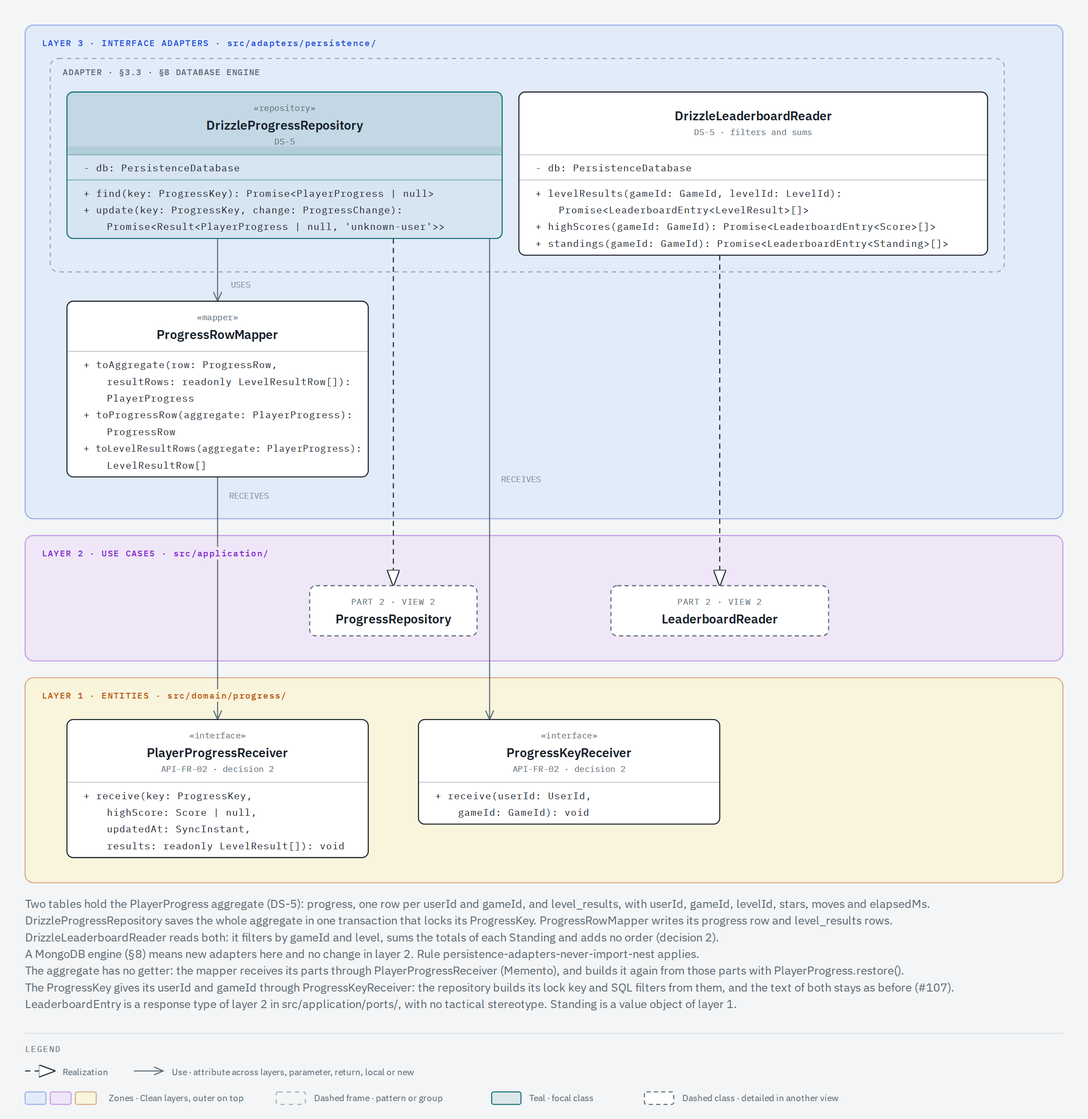
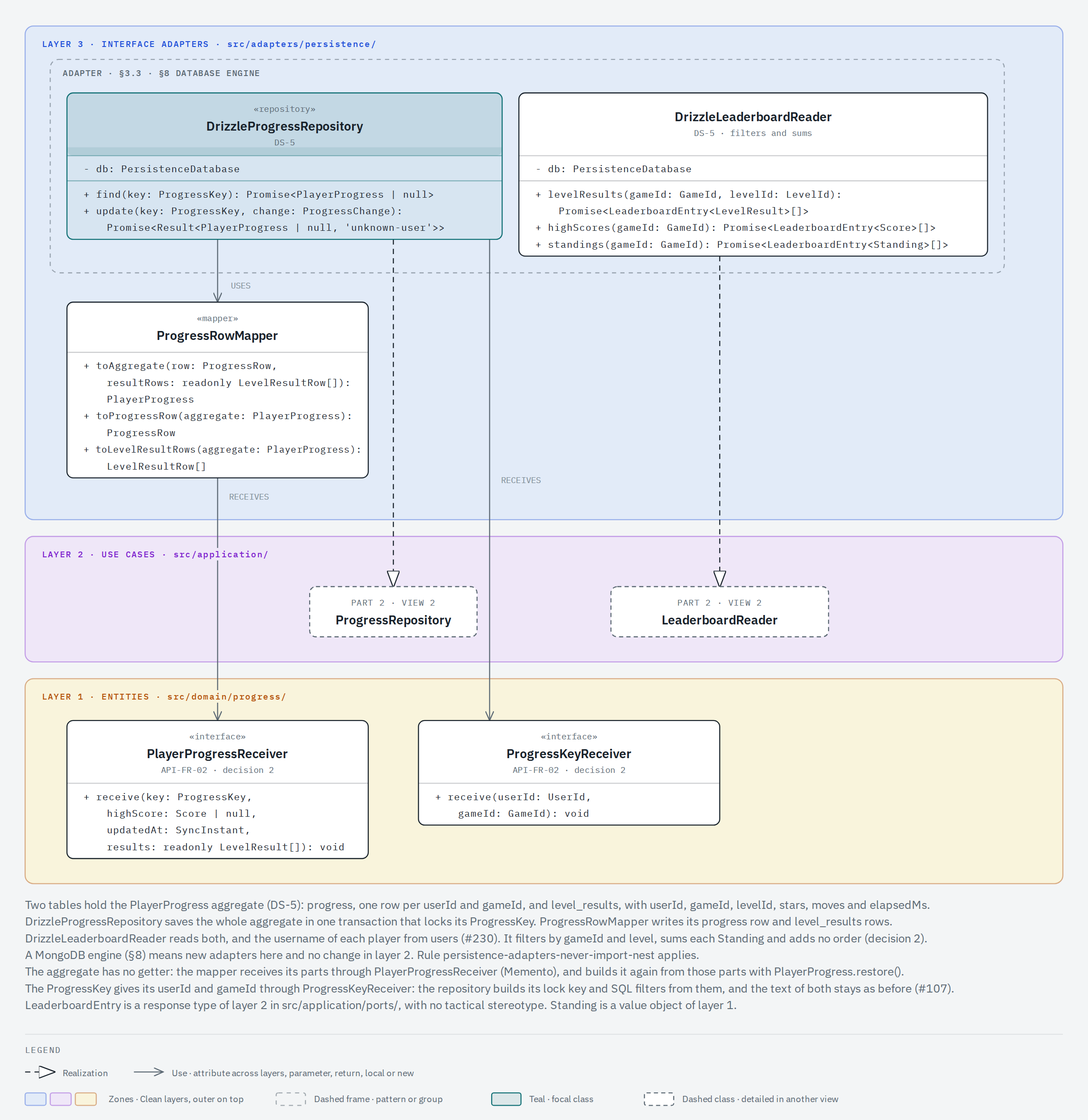
docs(architecture): describe the username of each leaderboard row
Refs #230

diff --git a/docs/architecture/classes/views/domain-1-progress.html b/docs/architecture/classes/views/domain-1-progress.html
@@ -63,7 +63,7 @@
       <p class="eyebrow">Class diagram · Part 1 · View 1 of 5</p>
       <h1>Progress: one aggregate per user and gameId, and the values that rank a leaderboard</h1>
       <svg
-        viewBox="0 0 1040 1362"
+        viewBox="0 0 1040 1378"
         xmlns="http://www.w3.org/2000/svg"
         role="img"
         aria-labelledby="domain1progress-title domain1progress-desc"
@@ -79,17 +79,18 @@
           restore() from those parts and keeps its LevelResult values, each one with the
           isBetterThan order of DS-4. The Standing value object holds the totals of a player in one
           game, a Stars, a LevelsCompleted, a Moves and an ElapsedTime, and the isBetterThan order
-          of S3-03. In layer 2, the LeaderboardEntry response type names the player by UserId and
-          holds the value that ranks the player: a LevelResult, a Score or a Standing. ProgressKey
-          takes the UserId and the GameId built in of(), which returns the key itself, compares them
-          in equals() and delivers both to a ProgressKeyReceiver with deliverTo(). GameId, Score,
-          SyncInstant and UserId keep their value private and deliver it to a receiver with
-          deliverTo(). Each of their factories returns a Result with the code of a broken rule.
-          LevelResult keeps its four value objects private, takes them built in of(), and delivers
-          all four to a LevelResultReceiver with deliverTo(). A dashed frame labelled Aggregate
-          encloses PlayerProgress and the value objects that it holds: ProgressKey, UserId, GameId,
-          LevelResult, Score and SyncInstant. A footnote gives the port signatures find(key:
-          ProgressKey) and update(key: ProgressKey, change: ProgressChange) of ProgressRepository.
+          of S3-03. In layer 2, the LeaderboardEntry response type names the player by UserId, names
+          the account by Username (#230), and holds the value that ranks the player: a LevelResult,
+          a Score or a Standing. ProgressKey takes the UserId and the GameId built in of(), which
+          returns the key itself, compares them in equals() and delivers both to a
+          ProgressKeyReceiver with deliverTo(). GameId, Score, SyncInstant and UserId keep their
+          value private and deliver it to a receiver with deliverTo(). Each of their factories
+          returns a Result with the code of a broken rule. LevelResult keeps its four value objects
+          private, takes them built in of(), and delivers all four to a LevelResultReceiver with
+          deliverTo(). A dashed frame labelled Aggregate encloses PlayerProgress and the value
+          objects that it holds: ProgressKey, UserId, GameId, LevelResult, Score and SyncInstant. A
+          footnote gives the port signatures find(key: ProgressKey) and update(key: ProgressKey,
+          change: ProgressChange) of ProgressRepository.
         </desc>
         <defs>
           <marker
@@ -224,7 +225,7 @@
         <!-- LeaderboardEntry<LevelResult> holds result on the board of a level: use with role and multiplicity -->
         <line
           x1="540"
-          y1="164"
+          y1="180"
           x2="540"
           y2="288"
           stroke="#5b6873"
@@ -434,7 +435,7 @@
           x="400"
           y="64"
           width="280"
-          height="100"
+          height="116"
           rx="6"
           fill="#ffffff"
           stroke="#17212a"
@@ -478,6 +479,9 @@
           + userId: UserId {readOnly}
         </text>
         <text x="416" y="156" fill="#17212a" font-size="9" font-family="'IBM Plex Mono', monospace">
+          + username: Username {readOnly}
+        </text>
+        <text x="416" y="172" fill="#17212a" font-size="9" font-family="'IBM Plex Mono', monospace">
           + result: TResult {readOnly}
         </text>
         <!-- Class: UserId («value object») -->
@@ -1404,21 +1408,31 @@
           font-size="11"
           font-family="'IBM Plex Sans', sans-serif"
         >
+          LeaderboardEntry also names the account of the player by its Username, which view 1.3
+          draws (#230).
+        </text>
+        <text
+          x="24"
+          y="1272"
+          fill="#5b6873"
+          font-size="11"
+          font-family="'IBM Plex Sans', sans-serif"
+        >
           ProgressRepository finds the aggregate with find(key: ProgressKey) and changes it with
           update(key: ProgressKey, change: ProgressChange) (#107).
         </text>
         <!-- Legend -->
         <line
           x1="24"
-          y1="1280"
+          y1="1296"
           x2="1016"
-          y2="1280"
+          y2="1296"
           stroke="rgba(23,33,42,0.10)"
           stroke-width="0.8"
         />
         <text
           x="24"
-          y="1298"
+          y="1314"
           fill="#5b6873"
           font-size="8"
           font-family="'IBM Plex Mono', monospace"
@@ -1428,16 +1442,16 @@
         </text>
         <line
           x1="24"
-          y1="1316"
+          y1="1332"
           x2="52"
-          y2="1316"
+          y2="1332"
           stroke="#5b6873"
           stroke-width="1"
           marker-end="url(#domain1progress-open)"
         />
         <text
           x="60"
-          y="1320"
+          y="1336"
           fill="#5b6873"
           font-size="8.5"
           font-family="'IBM Plex Sans', sans-serif"
@@ -1446,7 +1460,7 @@
         </text>
         <text
           x="299"
-          y="1320"
+          y="1336"
           fill="#5b6873"
           font-size="8.5"
           font-family="'IBM Plex Sans', sans-serif"
@@ -1455,7 +1469,7 @@
         </text>
         <rect
           x="24"
-          y="1336"
+          y="1352"
           width="20"
           height="12"
           rx="2"
@@ -1465,7 +1479,7 @@
         />
         <rect
           x="48"
-          y="1336"
+          y="1352"
           width="20"
           height="12"
           rx="2"
@@ -1475,7 +1489,7 @@
         />
         <text
           x="80"
-          y="1345"
+          y="1361"
           fill="#5b6873"
           font-size="8.5"
           font-family="'IBM Plex Sans', sans-serif"
@@ -1484,7 +1498,7 @@
         </text>
         <rect
           x="240"
-          y="1336"
+          y="1352"
           width="28"
           height="12"
           rx="2"
@@ -1495,7 +1509,7 @@
         />
         <text
           x="276"
-          y="1345"
+          y="1361"
           fill="#5b6873"
           font-size="8.5"
           font-family="'IBM Plex Sans', sans-serif"
@@ -1504,7 +1518,7 @@
         </text>
         <rect
           x="446"
-          y="1336"
+          y="1352"
           width="28"
           height="12"
           rx="2"
@@ -1514,7 +1528,7 @@
         />
         <text
           x="482"
-          y="1345"
+          y="1361"
           fill="#5b6873"
           font-size="8.5"
           font-family="'IBM Plex Sans', sans-serif"
@@ -1523,7 +1537,7 @@
         </text>
         <rect
           x="592"
-          y="1336"
+          y="1352"
           width="28"
           height="12"
           rx="2"
@@ -1534,7 +1548,7 @@
         />
         <text
           x="628"
-          y="1345"
+          y="1361"
           fill="#5b6873"
           font-size="8.5"
           font-family="'IBM Plex Sans', sans-serif"

diff --git a/docs/architecture/classes/views/ad-1-progress-store.html b/docs/architecture/classes/views/ad-1-progress-store.html
@@ -80,9 +80,10 @@
           parts with restore(). DrizzleProgressRepository finds and updates one progress by its
           ProgressKey and receives the userId and the gameId of the key through ProgressKeyReceiver,
           another interface of layer 1, for its lock key and its SQL filters.
-          DrizzleLeaderboardReader filters by gameId and level, sums the totals of each Standing and
-          adds no order. A footnote says that LeaderboardEntry is a response type of layer 2 with no
-          tactical stereotype and that Standing is a value object of layer 1.
+          DrizzleLeaderboardReader filters by gameId and level, sums the totals of each Standing,
+          joins the users table for the username of each row and adds no order. A footnote says that
+          LeaderboardEntry is a response type of layer 2 with no tactical stereotype and that
+          Standing is a value object of layer 1.
         </desc>
         <defs>
           <marker
@@ -695,8 +696,8 @@
           font-size="11"
           font-family="'IBM Plex Sans', sans-serif"
         >
-          DrizzleLeaderboardReader reads both: it filters by gameId and level, sums the totals of
-          each Standing and adds no order (decision 2).
+          DrizzleLeaderboardReader reads both, and the username of each player from users (#230). It
+          filters by gameId and level, sums each Standing and adds no order (decision 2).
         </text>
         <text
           x="24"

diff --git a/docs/REQUIREMENTS.md b/docs/REQUIREMENTS.md
@@ -21,7 +21,7 @@ API-FR-01 to API-FR-06 keep the numbers of statement §5.2.
 
 - **API-FR-01 — Sign-up and sign-in (§5.2.1).** Sign-up and sign-in with JWT. A username is stored as the player typed it. Sign-up rejects a username that differs from a stored one only in letter case (`Ada` after `ada`) with the same 409 as an exact duplicate, and a unique index on `lower(username)` holds the rule when two sign-ups run at the same time. Sign-in looks the user up by the same lower-case key that sign-up uses, so `ADA`, `Ada` and `ada` sign in the stored `ada` with its password, and the stored name keeps the letter case of sign-up (decided on 2026-11-16 on [#134](https://github.com/Hexablock-Suite/hexablock-api/issues/134), built in [#144](https://github.com/Hexablock-Suite/hexablock-api/issues/144); it replaces the as-typed sign-in of [#62](https://github.com/Hexablock-Suite/hexablock-api/issues/62)). _Check:_ an e2e test signs up, signs in and calls a protected endpoint with the token; the same call without a token gets 401.
 - **API-FR-02 — Progress sync (§5.2.2).** Progress sync with `gameId` as a required key: one progress entry per user and per variant. _Check:_ an endpoint test saves progress for two variants and reads back two entries; a second save for the same user and variant does not add an entry; a request without `gameId` is rejected. When two results of one level arrive, DS-12 decides which one stays. Built on [#135](https://github.com/Hexablock-Suite/hexablock-api/issues/135): a value that a client sends has bounds, and a value outside them gets 400 with the error body of API-FR-06 and the text of its rule, and the API stores nothing. The border holds the bounds ([#179](https://github.com/Hexablock-Suite/hexablock-api/issues/179)): the HTTP adapter, `src/adapters/http/progress-values.ts`, checks them, and the factories of the domain keep only the business rule of each value. A `gameId` and a `levelId` hold 1 to 64 characters, and a `levelId` holds no control character (U+0000 to U+001F, U+007F), a rule of that border and not of the domain; the same bounds apply to the paths of the progress and leaderboard routes and to the level update (API-FR-04), as decision 3 of #135 states ([2026-11-17](https://github.com/Hexablock-Suite/hexablock-api/issues/135#issuecomment-6953000419)): one rule for an id, at every border where a client sends one. So `GET /v1/progress/:gameId`, `GET /v1/leaderboard/:gameId`, `GET /v1/leaderboard/:gameId/levels/:levelId` and `PUT /v1/levels` answer 400 with the error body of API-FR-06 for an id outside the bounds, a NUL `levelId` included, which answered 500 before; an id of 64 characters keeps its answer. `test/progress-path-bounds.e2e-spec.ts` pins each route. The `stars` and the `moves` of one result are at most 2147483647, the largest value of their integer columns. The `elapsedMs` of one result is at most 2147483647 too ([#167](https://github.com/Hexablock-Suite/hexablock-api/issues/167)): the column `level_results.elapsed_ms` is a Postgres `bigint` and sets no such bound, so the limit is a choice of the API, the same largest value as the `stars` and the `moves`, and the sum of the times of one player stays a safe integer for any realistic number of levels. A row stored before these bounds keeps its values and still reads, and a total of the global leaderboard can exceed one column.
-- **API-FR-03 — Leaderboard (§5.2.3).** A global leaderboard per `gameId` and, for the level-based variants (Fit and Sort), per level. _Check:_ an endpoint test filters by `gameId` and by level. DS-4 orders the per-level leaderboard, and S3-03 orders the global one (§4). Decided on 2026-11-16 on [#134](https://github.com/Hexablock-Suite/hexablock-api/issues/134) and built on [#146](https://github.com/Hexablock-Suite/hexablock-api/issues/146): the leaderboard of a level that the level definitions do not hold answers 404 with the error body of API-FR-06, because the API holds every level (A6, API-FR-04). An unknown `levelId`, an unknown `gameId` and a `levelId` of another `gameId` each get 404, also when a player has synced a result for it. A stored level has a leaderboard, empty while no player has a result; a stored row that breaks a rule is still a stored level. The global leaderboard of a `gameId` keeps its answer: any `gameId` has one, empty while no player has a result.
+- **API-FR-03 — Leaderboard (§5.2.3).** A global leaderboard per `gameId` and, for the level-based variants (Fit and Sort), per level. _Check:_ an endpoint test filters by `gameId` and by level. DS-4 orders the per-level leaderboard, and S3-03 orders the global one (§4). Decided on 2026-11-16 on [#134](https://github.com/Hexablock-Suite/hexablock-api/issues/134) and built on [#146](https://github.com/Hexablock-Suite/hexablock-api/issues/146): the leaderboard of a level that the level definitions do not hold answers 404 with the error body of API-FR-06, because the API holds every level (A6, API-FR-04). An unknown `levelId`, an unknown `gameId` and a `levelId` of another `gameId` each get 404, also when a player has synced a result for it. A stored level has a leaderboard, empty while no player has a result; a stored row that breaks a rule is still a stored level. The global leaderboard of a `gameId` keeps its answer: any `gameId` has one, empty while no player has a result. Decided on 2026-11-27 on [hexablock-app#47](https://github.com/Hexablock-Suite/hexablock-app/issues/47) (option A) and built on [#230](https://github.com/Hexablock-Suite/hexablock-api/issues/230): each row of both leaderboards carries the `username` of its account beside its `userId`, as the player typed it at sign-up, because a board without names is not usable. _Check:_ an endpoint test reads both boards, and each row has the username of its account.
 - **API-FR-04 — Level definitions (§5.2.4).** Read and update the level definitions of Fit and Sort, so new levels reach players without an app update. One generic level schema, with a section specific to each `gameId`. _Check:_ an endpoint test reads the levels of each `gameId`, and the update rejects a Fit level that fails A5. Who may update levels is Q4: on 2026-11-03 the update endpoint kept the token guard only, with no roles. Decided on 2026-11-16 on [#134](https://github.com/Hexablock-Suite/hexablock-api/issues/134) and on 2026-11-17 on [#145](https://github.com/Hexablock-Suite/hexablock-api/issues/145) (built): `PUT /v1/levels` needs the token and an account in the list of level editors of the configuration, `LEVEL_EDITOR_IDS`, which holds user ids, not usernames. Any other signed-in account gets 403 with the error body of API-FR-06, and the API saves nothing. An empty or unset list lets no account update (fail closed). No role model: no role column and no role claim in the token. An update reaches players only when it raises the level `version` (DS-11). A stored level row that breaks a rule, decided on 2026-11-16 on [#134](https://github.com/Hexablock-Suite/hexablock-api/issues/134) and on 2026-11-17 on [#147](https://github.com/Hexablock-Suite/hexablock-api/issues/147) (built): `PUT /v1/levels` replaces that row with a valid level of the same `gameId` and `levelId`. The version rule of S3-10 still holds when the row keeps a valid `version`: an equal or a higher version replaces the row, and a lower version saves nothing and gets `older-version`. When the stored `version` itself breaks its rule, any valid version replaces the row. `GET /v1/levels` answers 200 with the other levels in `levels`, and the optional field `unavailable` names each broken row with its `gameId`, `levelId` and `reason`, the code of its first broken rule; the field is absent when no row is broken. The API logs one entry per broken row with the same three values. The API holds every level, the levels that the app bundles too (A6), as decided on 2026-11-16 on [#134](https://github.com/Hexablock-Suite/hexablock-api/issues/134): a level that the API does not hold has no leaderboard (API-FR-03, built on [#146](https://github.com/Hexablock-Suite/hexablock-api/issues/146)). Not built yet ([#158](https://github.com/Hexablock-Suite/hexablock-api/issues/158)): a deploy step sends the bundled level files of the app to `PUT /v1/levels` before the first request asks a leaderboard, and a check flags a bundled file that differs from the stored copy.
 - **API-FR-05 — API documentation (§5.2.5).** API documentation with Swagger/OpenAPI. _Check:_ `pnpm openapi:export` writes `openapi/openapi.json`, and `test/health.e2e-spec.ts` fails when the committed file differs from the code (rule R-openapi-drift).
 - **API-FR-06 — HTTP errors (§5.2.6).** Consistent HTTP error responses. _Check:_ e2e tests for a validation error, a missing token and a missing resource get the same body shape.

diff --git a/docs/architecture/classes.md b/docs/architecture/classes.md
@@ -47,7 +47,7 @@ A hand edit of that order survives. Move the boxes in draw.io, run `pin.mjs` of 
 
 ### View 1.1: progress and level results
 
-![Progress: the PlayerProgress aggregate root per ProgressKey, which holds the ProgressKey value object of a UserId and a GameId, keeps its high score as a Score value object and the instant of its last sync as a SyncInstant value object, delivers its parts to a PlayerProgressReceiver with deliverTo(), is built again by restore() from those parts and keeps its LevelResult values, inside a dashed Aggregate frame with ProgressKey, UserId, GameId, LevelResult, Score and SyncInstant; the Standing value object, which holds the totals and the global order of Fit and Sort; and, in layer 2, the LeaderboardEntry response type, which names the player by UserId and holds the LevelResult, the Score or the Standing that ranks the player; a note gives find(key: ProgressKey) and update(key: ProgressKey, change: ProgressChange) of ProgressRepository](classes/views/domain-1-progress.png)
+![Progress: the PlayerProgress aggregate root per ProgressKey, which holds the ProgressKey value object of a UserId and a GameId, keeps its high score as a Score value object and the instant of its last sync as a SyncInstant value object, delivers its parts to a PlayerProgressReceiver with deliverTo(), is built again by restore() from those parts and keeps its LevelResult values, inside a dashed Aggregate frame with ProgressKey, UserId, GameId, LevelResult, Score and SyncInstant; the Standing value object, which holds the totals and the global order of Fit and Sort; and, in layer 2, the LeaderboardEntry response type, which names the player by UserId and the account by Username (#230) and holds the LevelResult, the Score or the Standing that ranks the player; a note gives find(key: ProgressKey) and update(key: ProgressKey, change: ProgressChange) of ProgressRepository](classes/views/domain-1-progress.png)
 
 ### View 1.2: the level schema
 
@@ -91,7 +91,7 @@ Layer 3, `src/adapters/`, and layer 4, `src/infrastructure/`. Adapters never imp
 
 ### View 3.1: progress store
 
-![Progress store: two Drizzle adapters implement the progress ports over the progress and level_results tables, ProgressRowMapper receives the parts of the aggregate through PlayerProgressReceiver, and DrizzleProgressRepository receives the userId and the gameId of a ProgressKey through ProgressKeyReceiver for its lock key and its SQL filters; a note says that LeaderboardEntry is a response type of layer 2 with no tactical stereotype and that Standing is a value object of layer 1](classes/views/ad-1-progress-store.png)
+![Progress store: two Drizzle adapters implement the progress ports over the progress and level_results tables, ProgressRowMapper receives the parts of the aggregate through PlayerProgressReceiver, and DrizzleProgressRepository receives the userId and the gameId of a ProgressKey through ProgressKeyReceiver for its lock key and its SQL filters; a note says that DrizzleLeaderboardReader also reads the username of each player from the users table (#230), and that LeaderboardEntry is a response type of layer 2 with no tactical stereotype and that Standing is a value object of layer 1](classes/views/ad-1-progress-store.png)
 
 ### View 3.2: level and user store
 
@@ -179,7 +179,7 @@ Every abstraction cites a requirement, a declared variation or a layer boundary.
 | `Topology` and `Topologies`                    | D4, §8: a square, triangular or 3D topology. A5 asks the `Topology` of a level for its cells and steps (decision 6).     |
 | `Range<T>`                                     | Credential limits (#60): one `Range<CharacterCount>` each for `Username`, `Password` and the HTTP adapter (D6, #99).     |
 
-Plain classes: the row mappers, the HTTP mappers, the controllers, `LevelDto`, the guard and the filter. `LeaderboardEntry<TResult>` is a response type of layer 2 in `src/application/ports/`, with no tactical stereotype. It holds the `UserId` of the player and the domain value that ranks the player: a `LevelResult`, a `Score` or a `Standing`. It has no rule of its own, because the order of each board lives in that value object of the domain (decision 2). It is an alias of `BoardEntry<T>`, which `src/domain/progress/ranked-board.ts` exports as the entry that `RankedBoard.of()` takes, so the shape has one declaration ([#213](https://github.com/Hexablock-Suite/hexablock-api/issues/213)). `BoardEntry` is a type alias with no rule, as `Result` is, and the alias adds no bound on `TResult`. `PlayerProgressReceiver` and `UserReceiver` are receiver interfaces of the domain with no tactical stereotype: each aggregate delivers its parts to one of them, as a value object delivers its datum, and only the border implements them (decisions 2, 15 and 16). `ProgressKeyReceiver` is the same kind of interface for the two parts of a `ProgressKey`. Through them each aggregate gives its state to the border, as the Memento of decision 2 asks. `ProgressKeyValues`, `ProgressValues` and `UserValues` in `src/adapters/received.ts` hold the plain values that the border receives; they are types of the border, not of the domain. `LevelValidators` is not a plain class: it is a «domain service» that picks the strategy of an incoming level by its `gameId`, outside any level, and keeps no state that changes (decision 5). The composition root fills it, so it needs no interface of its own.
+Plain classes: the row mappers, the HTTP mappers, the controllers, `LevelDto`, the guard and the filter. `LeaderboardEntry<TResult>` is a response type of layer 2 in `src/application/ports/`, with no tactical stereotype. It holds the `UserId` of the player, the `Username` of the account of the player and the domain value that ranks the player: a `LevelResult`, a `Score` or a `Standing`. The `Username` lets a client show a name on the board: Oscar chose option A on 2026-11-27 on [hexablock-app#47](https://github.com/Hexablock-Suite/hexablock-app/issues/47), and [#230](https://github.com/Hexablock-Suite/hexablock-api/issues/230) built it. The entry carries the value object, not a text, and `RankedBoard` delivers it to its `RankedBoardReceiver` beside the `UserId`; the order still reads only the result and the `UserId`. `DrizzleLeaderboardReader` joins the `users` table for the name, so it reads one table of the user module. It has no rule of its own, because the order of each board lives in that value object of the domain (decision 2). It is an alias of `BoardEntry<T>`, which `src/domain/progress/ranked-board.ts` exports as the entry that `RankedBoard.of()` takes, so the shape has one declaration ([#213](https://github.com/Hexablock-Suite/hexablock-api/issues/213)). `BoardEntry` is a type alias with no rule, as `Result` is, and the alias adds no bound on `TResult`. `PlayerProgressReceiver` and `UserReceiver` are receiver interfaces of the domain with no tactical stereotype: each aggregate delivers its parts to one of them, as a value object delivers its datum, and only the border implements them (decisions 2, 15 and 16). `ProgressKeyReceiver` is the same kind of interface for the two parts of a `ProgressKey`. Through them each aggregate gives its state to the border, as the Memento of decision 2 asks. `ProgressKeyValues`, `ProgressValues` and `UserValues` in `src/adapters/received.ts` hold the plain values that the border receives; they are types of the border, not of the domain. `LevelValidators` is not a plain class: it is a «domain service» that picks the strategy of an incoming level by its `gameId`, outside any level, and keeps no state that changes (decision 5). The composition root fills it, so it needs no interface of its own.
 
 ## Domain design rules
 

diff --git a/docs/architecture/flows.md b/docs/architecture/flows.md
@@ -125,7 +125,8 @@ The other five use cases follow a path that one of the three flows already draws
 | `GET /v1/leaderboard/{gameId}`                  | `top()`        | `gameId`, a lowercase slug                                          | `GlobalLeaderboardDto`: `gameId`, `highScores` (`ScoreEntryDto[]`) and `standings` (`StandingEntryDto[]`) |
 | `GET /v1/leaderboard/{gameId}/levels/{levelId}` | `topOfLevel()` | `gameId`, a lowercase slug, and `levelId`, a text that is not blank | `LevelLeaderboardDto`: `gameId`, `levelId` and `entries` (`LevelEntryDto[]`)                              |
 
-- A `ScoreEntryDto` row holds `rank`, `userId` and `highScore`. A `StandingEntryDto` row holds `rank`, `userId`, `stars`, `levelsCompleted`, `moves` and `elapsedMs`, the totals of the stored level results of the player. A `LevelEntryDto` row holds `rank`, `userId`, `stars`, `moves` and `elapsedMs`.
+- A `ScoreEntryDto` row holds `rank`, `userId`, `username` and `highScore`. A `StandingEntryDto` row holds `rank`, `userId`, `username`, `stars`, `levelsCompleted`, `moves` and `elapsedMs`, the totals of the stored level results of the player. A `LevelEntryDto` row holds `rank`, `userId`, `username`, `stars`, `moves` and `elapsedMs`.
+- `username` is the name of the account of the player, as the player typed it at sign-up ([#230](https://github.com/Hexablock-Suite/hexablock-api/issues/230)). `DrizzleLeaderboardReader` joins the `users` table on the `userId` of each row and builds a `Username`, and the mapper receives the name that it delivers. A stored name that breaks the rule of `Username` is a server fault, a 500.
 - `highScores` ranks by `Score.isHigherThan()`, `standings` by `Standing.isBetterThan()` (S3-03), and `entries` by `LevelResult.isBetterThan()` (DS-4). `GameId` is open (decision 5 of [classes.md](classes.md)), so the global route gives both lists for every game, and no list of `gameId` exists. A list holds only the players who have a result to rank (decision of [#82](https://github.com/Hexablock-Suite/hexablock-api/issues/82)): `highScores` of Fit and Sort is empty, and `standings` of Lines and Merge is empty.
 - `rank` is 1 plus the number of rows of the same list that are strictly better. A full tie shares a rank, and the next rank skips: 1, 1, 3. The tied rows come out by `userId` ascending, through `UserId.comesBefore()`.
 - No query parameter and no page size: a list holds every player who has a result to rank.
@@ -137,9 +138,24 @@ Example answer of `GET /v1/leaderboard/hexa-lines`:
 {
   "gameId": "hexa-lines",
   "highScores": [
-    { "rank": 1, "userId": "0b6f6a4e-1c2d-4e5f-8a9b-0c1d2e3f4a5b", "highScore": 120 },
-    { "rank": 1, "userId": "6f1c1d0e-2b7a-4c55-9a51-0d6c7a1e8f01", "highScore": 120 },
-    { "rank": 3, "userId": "9a3e5c7d-4b2f-4e1a-8c6d-2f4b6d8e0a1c", "highScore": 80 }
+    {
+      "rank": 1,
+      "userId": "0b6f6a4e-1c2d-4e5f-8a9b-0c1d2e3f4a5b",
+      "username": "ada",
+      "highScore": 120
+    },
+    {
+      "rank": 1,
+      "userId": "6f1c1d0e-2b7a-4c55-9a51-0d6c7a1e8f01",
+      "username": "Grace",
+      "highScore": 120
+    },
+    {
+      "rank": 3,
+      "userId": "9a3e5c7d-4b2f-4e1a-8c6d-2f4b6d8e0a1c",
+      "username": "linus",
+      "highScore": 80
+    }
   ],
   "standings": []
 }
@@ -155,6 +171,7 @@ Example answer of `GET /v1/leaderboard/hexa-fit/levels/fit-01`:
     {
       "rank": 1,
       "userId": "0b6f6a4e-1c2d-4e5f-8a9b-0c1d2e3f4a5b",
+      "username": "ada",
       "stars": 3,
       "moves": 10,
       "elapsedMs": 45000
@@ -162,6 +179,7 @@ Example answer of `GET /v1/leaderboard/hexa-fit/levels/fit-01`:
     {
       "rank": 2,
       "userId": "6f1c1d0e-2b7a-4c55-9a51-0d6c7a1e8f01",
+      "username": "Grace",
       "stars": 3,
       "moves": 12,
       "elapsedMs": 45000
